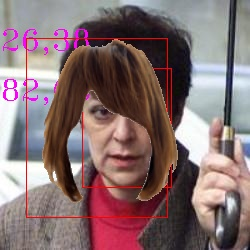
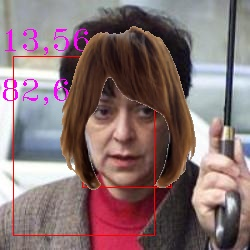
update

Changed region(s): [[0.0, 0.084, 0.784, 0.952]]

diff --git a/image_test.py b/image_test.py
@@ -79,6 +79,7 @@ test_data = TestLoader(gt_imdb)
 all_boxes, landmarks = mtcnn_detector.detect_face(test_data)
 print('box num', len(all_boxes[0]))
 count = 0
+img_len = len(gt_imdb)
 
 for imagepath in gt_imdb:
     image = cv2.imread(imagepath)
@@ -90,6 +91,7 @@ for imagepath in gt_imdb:
     # image[0:rols, 0:cols] = hair
 
     for bbox, landmark in zip(all_boxes[count], landmarks[count]):
+    # for bbox in all_boxes:
         cv2.putText(image, str(int(bbox[0])) + ',' + str(int(bbox[1])), (0, 100),
                     cv2.FONT_HERSHEY_TRIPLEX, 1,
                     color=(255, 0, 255))
@@ -124,9 +126,10 @@ for imagepath in gt_imdb:
         cv2.putText(image, str(int(o_x)) + ',' + str(int(o_y)), (0, 50),
                     cv2.FONT_HERSHEY_TRIPLEX, 1,
                     color=(255, 0, 255))
-        if o_x < 0 or o_y < 0:
+
+        if o_x < 0 or o_y < 0 or o_x + rows > 250 or o_y + cols > 250:
             print("o_x: {}; o_y: {}".format(o_x, o_y))
-            continue
+            break
         # o_x, o_y = 0,50
 
         cv2.rectangle(image, (o_x, o_y), (o_x + cols, o_y + rows), (0, 0, 255), 1)
@@ -159,7 +162,7 @@ for imagepath in gt_imdb:
         image[o_x:o_x + rows, o_y:o_y + cols] = dst
         #
 
-        count = count + 1
+
         # cv2.imwrite("result_landmark/%d.png" %(count),image)
 
         # cv2.imshow("lala", image)
@@ -170,3 +173,5 @@ for imagepath in gt_imdb:
         # cv2.waitKey(0)
     # cv2.imshow("lala", image)
     # cv2.waitKey(0)
+    count = count + 1
+
